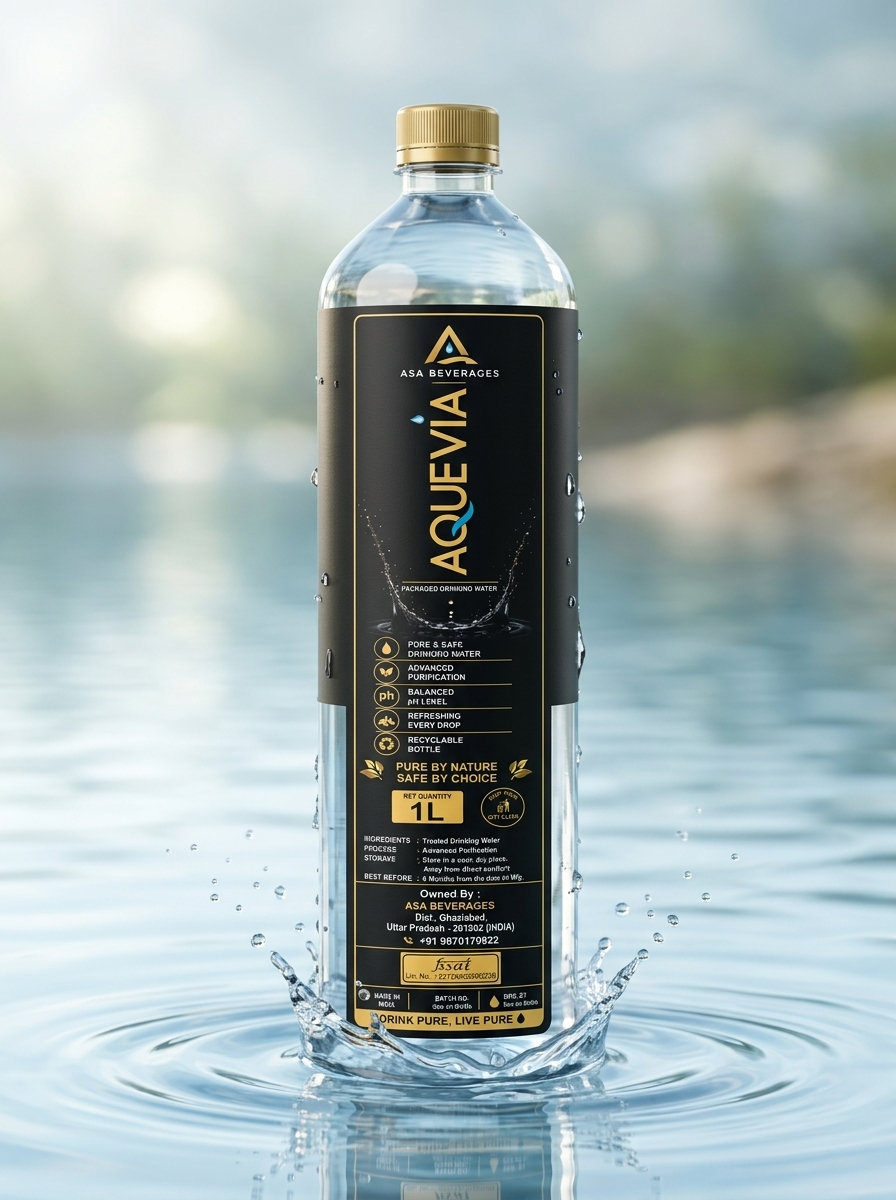
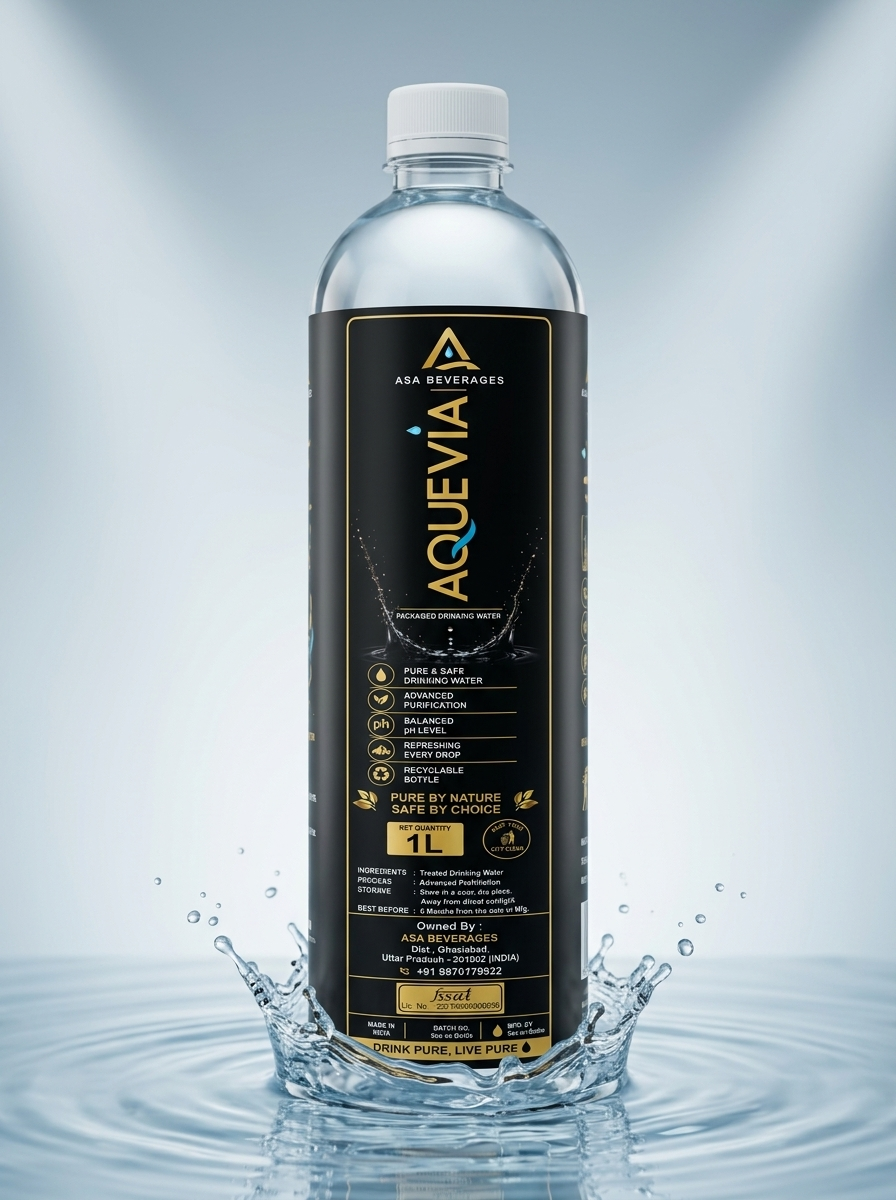
Update bottle renders to white caps and remove 5L container from image and content

diff --git a/src/components/ProductSection.tsx b/src/components/ProductSection.tsx
@@ -22,7 +22,7 @@ export default function ProductSection({ onSelectProductForInquiry }: ProductSec
       image: "/images/aquevia_bottle_1l.jpg",
       tagline: "Our Flagship Daily Hydration Size",
       purification: "RO + UV + Ozonized + Minerals",
-      features: ["Food Grade PET Bottle", "Ergonomic Grip Design", "Tamper-Proof Seal", "Balanced pH 7.2-7.5"],
+      features: ["Food Grade PET Bottle", "Ergonomic Grip Design", "Tamper-Proof White Cap", "Balanced pH 7.2-7.5"],
       packaging: "Case of 12 Bottles",
     },
     {
@@ -34,19 +34,19 @@ export default function ProductSection({ onSelectProductForInquiry }: ProductSec
       image: "/images/aquevia_jar_20l.jpg",
       tagline: "High Capacity Office & Home Hydration",
       purification: "Multi-stage RO + Ozonized Hygiene",
-      features: ["BPA-Free Heavy PET", "Spill-Proof Dispenser Cap", "Integrated Side Handle", "Multi-Use Recyclable"],
+      features: ["BPA-Free Heavy PET", "Spill-Proof White Cap", "Integrated Side Handle", "Multi-Use Recyclable"],
       packaging: "Individual Sealed Unit",
     },
     {
       id: "range-collection",
       name: "Aquevia Complete Size Range",
-      capacity: "500ml, 1L, 2L, 5L",
+      capacity: "500ml, 1L, 2L",
       category: "range",
       isPrimary: false,
       image: "/images/aquevia_range.jpg",
       tagline: "Complete Portfolio For All Occasions",
       purification: "100% Certified Pure Drinking Water",
-      features: ["Convenient Travel 500ml", "Standard 1L & 2L Cans", "5L Family Pantry Can", "Custom Bulk Branding"],
+      features: ["Convenient Travel 500ml", "Standard 1L Bottle", "Family 2L Pack", "Custom Bulk Branding"],
       packaging: "Custom Shrink Wrapped Cases",
     },
   ];
@@ -73,7 +73,7 @@ export default function ProductSection({ onSelectProductForInquiry }: ProductSec
           </h2>
 
           <p className="text-slate-600 text-base sm:text-lg leading-relaxed">
-            Engineered in precision food-grade PET bottles, Aquevia provides pure, refreshing drinking water tailored for personal use, corporate offices, events, and commercial retail.
+            Engineered in precision food-grade PET bottles with white hygienic caps, Aquevia provides pure, refreshing drinking water tailored for personal use, corporate offices, events, and commercial retail.
           </p>
 
           {/* Filter Bar */}

diff --git a/src/components/FaqSection.tsx b/src/components/FaqSection.tsx
@@ -27,7 +27,7 @@ export default function FaqSection() {
     },
     {
       q: "Which bottle sizes are available in Aquevia water?",
-      a: "Our flagship primary bottle size is 1L. We also manufacture 500ml travel bottles, 2L family cans, 5L pantry jugs, and 20L heavy-duty dispenser jars for offices and homes.",
+      a: "Our flagship primary bottle size is 1L. We also manufacture 500ml travel bottles, 2L family packs, and 20L heavy-duty dispenser jars for offices and homes.",
     },
   ];
 
